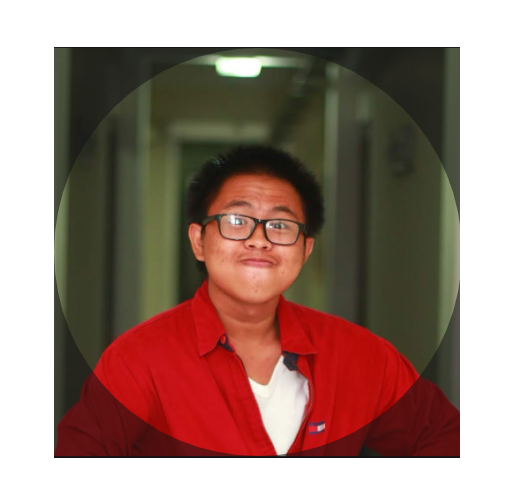
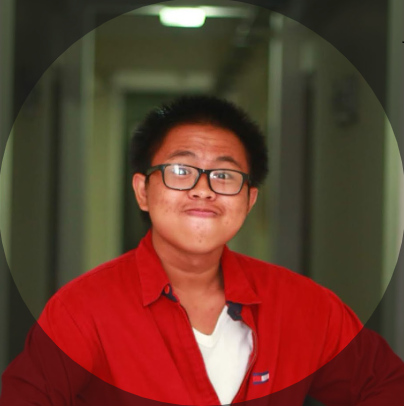
mod: Modify and add asset picture

diff --git a/pages/work-academic.html b/pages/work-academic.html
@@ -3,41 +3,114 @@
 <head>
     <meta charset="UTF-8">
     <meta name="viewport" content="width=device-width, initial-scale=1.0">
+    <link rel="stylesheet" href="../style.css">
+    <link rel="preconnect" href="https://fonts.googleapis.com">
+    <link rel="preconnect" href="https://fonts.gstatic.com" crossorigin>
+    <link href="https://fonts.googleapis.com/css2?family=Roboto+Slab:wght@100..900&family=Work+Sans:ital,wght@0,100..900;1,100..900&display=swap" rel="stylesheet">
     <title>Work and Academic | Faishal Tahsiin FSSE</title>
 </head>
 <body>
-    <table width="100%">
-        <thead>
-            <tr> 
-                <th rowspan="2" width="12%" align="center" valign="middle"><img src="../assets/creator-pic.png" alt="BigBrain" width="80%"></th>
-                <th width="76%" align="left"><h2>Hello, It's me Bejo! Your Dev Wannabe&#128513;</h2></th>
-                <th width="12%" align="left" valign="bottom">Navigate</th>
-            </tr>
-            <tr>
-                <td>
-                    <p align="justify">I think this table might be 100% semanticly incorrect, but looks good though. Will recreate this layouting using css later. Meanwhile, here is a Lorem: ipsum dolor sit amet consectetur adipisicing elit. Voluptate et nesciunt fuga quisquam possimus. Neque porro architecto, eligendi sint ut distinctio natus, illo unde esse qui iste facilis assumenda libero at ea asperiores! Quae soluta tenetur magni dolor quod, sed vero perspiciatis dignissimos enim praesentium quos ad voluptas assumenda non explicabo amet quis vitae veniam minima impedit aliquam? Minima in quasi esse officiis fugit eveniet vero provident quam ea dolores, quod autem est voluptas molestias maiores doloremque voluptatum dignissimos. Placeat perferendis nam vero quae? At nihil laboriosam quae commodi veniam velit, officiis, excepturi, blanditiis iure doloremque reiciendis quasi omnis fugit autem quas dolore explicabo temporibus provident iusto! Explicabo placeat tempore provident qui natus rerum sed reiciendis commodi, modi vel error suscipit quo animi dignissimos iure minus, eveniet architecto.</p>
-                </td>
-                <th align="left" valign="top">
-                    <nav>
-                        <ul>
-                            <li><a href="../index.html">Home</a></li>
-                            <li><a href="../pages/work-academic.html">Academic and Work</a></li>
-                            <li><a href="../pages/projects.html">Project Involved</a></li>
-                            <li><a href="../pages/contact-me.html">Get in touch</a></li>
-                        </ul>
-                    </nav>
-                </th>
-            </tr>
-        </thead>
-    </table>
-    <hr/>
-    <br>
     <header>
-        <h1>Academic, Experiences, and Achievements&#128187;</h1>
-        <p>Here is a brief explanation where my academics, experiences, and achievement is put. Need more text so Lorem ipsum dolor sit amet, consectetur adipisicing elit. Consequuntur voluptates ratione tenetur provident quos minus omnis assumenda ab repellendus ea!</p>
+        <h1 class="kebejoan">.kebejoan</h1>
+        <nav class="main-nav">
+                <a href="../index.html">.home</a>
+                <a href="../pages/work-academic.html">.work</a>
+                <a href="../pages/projects.html">.projects</a>
+                <a href="../pages/contact-me.html">.contact</a>
+        </nav>
     </header>
-    <br>
-    <main>
+    <div class="main-div">
+        <div class="main-div-left">
+            <!-- empty or for future divider -->
+        </div>
+        <div class="main-div-mid">
+            <main>
+                <section>
+                    <h2>Academic</h2>
+                    <ul>
+                        <li>
+                            <h3>High School, Sciences [2013-2016]</h3>
+                            <p>[placeofstudy]</p>
+                        </li>
+                        <li>
+                            <h3>Engineering Physics, School of Electrical Engineering [2016-2020]</h3>
+                            <span>[placeofstudy]</span>
+                        </li>
+                    </ul>
+                </section>
+                <br>
+                <section>
+                    <h2>Work Experiences</h2>
+                    <ul>
+                        <li>
+                            <h3>SCADA System Engineer [2022-present]</h3>
+                            <p align="justify"> I want to make a description of my work in here but it's a lot to think so here's a Lorem for you: Lorem ipsum dolor sit amet consectetur adipisicing elit. Illo culpa, atque inventore sapiente non quam repellendus laudantium necessitatibus fuga quaerat voluptas perspiciatis eius. Fuga fugiat architecto, perspiciatis, distinctio eligendi maiores odio, rem aperiam molestiae natus vel voluptatibus. Nam nisi ipsam, dolorum dolores a corrupti mollitia, fuga itaque cum corporis nemo numquam quasi, aspernatur perspiciatis rerum incidunt architecto eaque sapiente? Totam sed magnam accusamus corporis. Ipsa deleniti dolor dignissimos illum reiciendis a ad? Iure, veritatis, qui impedit ut, dolor facere ipsa autem odit aut id eum nemo fugit! Sit nesciunt aliquid sint perferendis consequuntur dignissimos aspernatur adipisci quibusdam. Ab, culpa possimus.</p>
+                            <p>So, as a SCADA System Engineer, I have the responsibility to:</p>
+                            <ol>
+                                <li>
+                                    <strong>Create a program (logic)</strong>
+                                    <p>As documents are submitted by the user, I must reference it to create logic for the controller (PLCs) that is used</p>
+                                </li>
+                                <li>
+                                    <strong>Create an interface (HMI)</strong>
+                                    <p>From the document P&IDs (factory layouts) received, I must create an interface for operator (user) to interact with to control the plant</p>
+                                </li>
+                                <li>
+                                    <strong>Documentation (logic)</strong>
+                                    <p>Through out the project lifecycle, I must also document any work that have been made in compliant with the agreed basis of documentation</p>
+                                </li>
+                            </ol>
+                            <p align="justify">All in all, I kind of am already a "Full-Stack" Engineer. By this I meant to set an example of <strong>nested list</strong> (which is hopefully semanticly correct).</p>
+                        </li>
+                        <li>   
+                            <h3>IoT Hardware Engineer [2022]</h3>
+                            <p align="justify">Lorem ipsum dolor sit amet consectetur, adipisicing elit. Repellendus praesentium pariatur harum natus officia voluptatem dolores quo exercitationem nam sunt, fuga quos ducimus nobis quisquam itaque provident atque perferendis repudiandae numquam? Laborum aliquid ipsa obcaecati nemo mollitia ea labore nulla saepe architecto nostrum nam unde qui, sequi molestiae, quo voluptatum neque tempore ducimus blanditiis ipsam consectetur? Quaerat placeat animi modi officiis possimus dolorum sed eaque? Architecto fugit dignissimos facere, odio illum quisquam laboriosam incidunt cupiditate! Voluptatibus veniam unde accusamus tempore quasi error. Provident, atque facilis! In delectus repellat atque odit reprehenderit ad modi facilis sit ea ducimus. Adipisci odit itaque harum accusamus pariatur at esse rerum quaerat, quis iste saepe ut molestiae id tempora, nobis expedita veniam velit in minus?</p>
+                        </li>
+                        <li>
+                            <h3>Physics Master Teacher [2022]</h3>
+                            <p align="justify">Lorem ipsum dolor, sit amet consectetur adipisicing elit. Dolores aperiam atque nihil corrupti officia fuga voluptas sunt velit distinctio esse repellat earum ut nobis expedita blanditiis adipisci, enim eum omnis quo eius hic aspernatur? Perspiciatis nulla soluta sequi voluptatem. Excepturi molestiae voluptate mollitia ratione natus, molestias nulla distinctio eaque id tenetur laudantium. Dolor sapiente quos autem beatae quasi soluta debitis corporis velit, quidem tempore laudantium fugiat tempora fuga. Quaerat aperiam hic deleniti maiores accusantium nisi velit, repudiandae eum libero, perspiciatis mollitia accusamus dolores asperiores vero nemo enim neque. Rerum optio, error atque nostrum minus ea, ut facilis veritatis illo eaque aliquam temporibus perferendis ex obcaecati tempore! Molestiae accusamus amet voluptates quam consequuntur ullam iste nesciunt quibusdam eaque magnam nemo minima explicabo, aliquam vitae nostrum consectetur similique cumque. Rem sequi distinctio hic doloribus, sed numquam? Sapiente, fuga! Debitis accusantium labore officiis pariatur quidem necessitatibus ipsum ea harum dolore. Maiores distinctio ea veniam eos, hic voluptas nisi! Harum facilis autem minima impedit ut reiciendis laboriosam, illum praesentium nam, fugit debitis, sint mollitia!</p>
+                        </li>
+                    </ul>
+                </section>
+                <br>
+                <section>
+                    <h2>Achievements</h2>
+                    <ul>
+                        <li>
+                            <h3>Achievement A</h3>
+                            <p align="justify"> I sure hope there is a lot to put in here but I can only give you Lorem now:</p>
+                            <ul>
+                                <li>
+                                    <strong>Sub-list Achievement A</strong>
+                                    <p>Need text so lorem ipsum dolor, sit amet consectetur adipisicing elit. Error, quisquam eveniet? Aut sint fugit est unde aliquid quam molestias debitis.</p>
+                                </li>
+                                <li>
+                                    <strong>Sub-list Achievement A</strong>
+                                    <p>Need text so lorem, ipsum dolor sit amet consectetur adipisicing elit. Eaque magnam sequi, reiciendis necessitatibus voluptas, debitis veniam laboriosam libero distinctio in, recusandae modi inventore ex minima dolorum temporibus?</p>
+                                </li>
+                                <li>
+                                    <strong>Sub-list Achievement A</strong>
+                                    <p>Need text so lorem ipsum dolor sit amet, consectetur adipisicing elit. Sint iusto aperiam beatae incidunt eaque laborum tempora esse commodi nihil.</p>
+                                </li>
+                            </ul>
+                        </li>
+                        <li>   
+                            <h3>Achievement B</h3>
+                            <p>Lorem ipsum dolor sit amet consectetur, adipisicing elit. Sequi, consequatur distinctio ut, earum ex laborum natus architecto cum itaque esse praesentium ipsam officiis quae accusantium voluptas nisi. Quasi dolore, est explicabo nostrum exercitationem iusto vel ipsum rerum, harum laborum velit veniam totam amet dolor dolores nobis accusantium ab, ea molestias! Nisi quod et rerum ratione.</p>
+                        </li>
+                        <li>
+                            <h3>Achievement C</h3>
+                            <p>Lorem ipsum, dolor sit amet consectetur adipisicing elit. Autem alias corporis esse voluptas reiciendis quo dicta explicabo sapiente! Delectus nisi doloremque dolore harum tempore commodi neque, totam eaque quasi, corporis amet debitis voluptas! Aperiam laudantium excepturi id!</p>
+                        </li>
+                    </ul>
+                </section>
+            </main>
+        </div>
+        <div class="main-div-right">
+            <!-- empty or for future divider -->
+        </div>
+    </div>
+    <!-- <main>
         <section>
             <h2>Academic</h2>
             <ul>
@@ -117,5 +190,26 @@
                 </li>
             </ul>
         </section>
-    </main>
+    </main> -->
+
+    <br>
+    <footer>
+        <div class="footer-socials">
+            <a href="https://github.com/kebejoan" target="_blank">
+                <img src="../assets/github-ico.png" alt="github.com/kebejoan"/>
+            </a>
+            <a href="https://www.linkedin.com/in/faishal-bejo/" target="_blank">
+                <img src="../assets/linkedin-ico.png" alt="linkedin.com/in/faishal-bejo/" />
+            </a>
+            <a href="https://www.instagram.com/kebejoan" target="_blank">
+                <img src="../assets/instagram-ico.png" alt="instagram.com/kebejoan"/>
+            </a>
+        </div>
+        <div class="footer-state">
+            <!-- <p>made with &#128293; & &#128150;</p> -->
+        </div>
+        <div class="footer-copy">
+            <p>&copy;kebejoan2025</p>
+        </div>        
+    </footer>
 </body>
